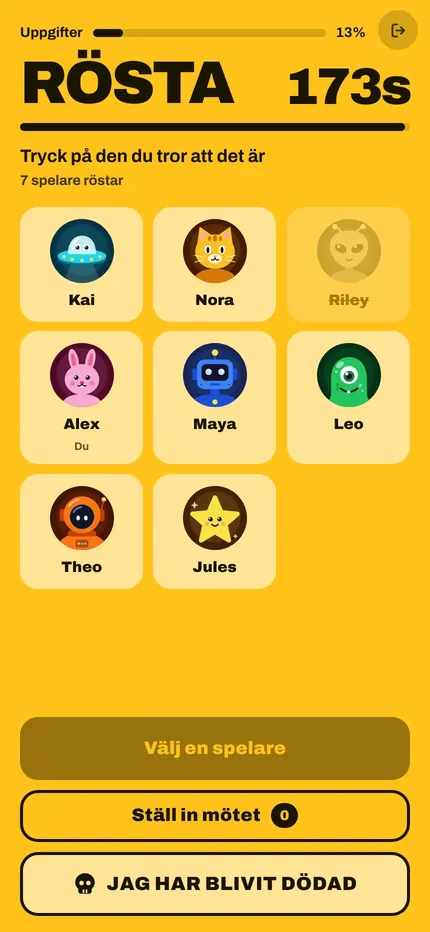
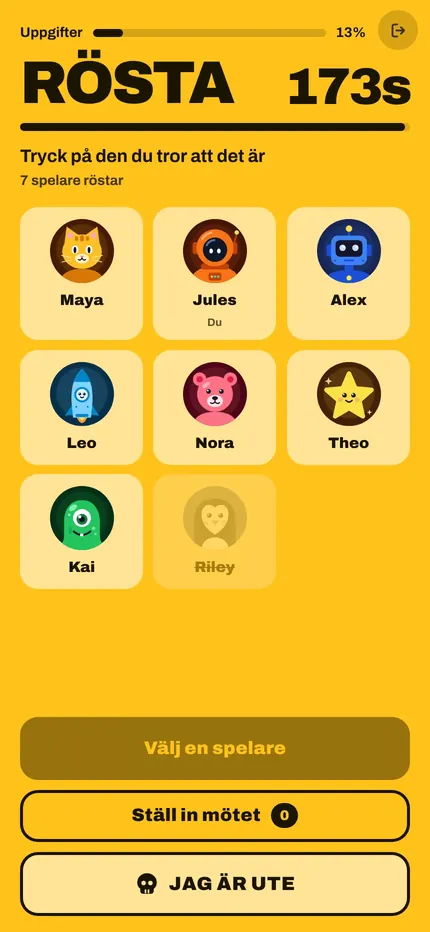
Use gentler wording in Norwegian and Swedish
Sam asked for softer language since many players are kids: kill,
murder, corpse and death words become eliminate / out. Re-shot the
/no and /sv round-strip screenshots so they show the new text.

Claude-Session: https://claude.ai/code/session_019kWBTsKt8SuS33keQ1FHBF

Changed region(s): [[0.0302, 0.2178, 0.9674, 0.6534], [0.1512, 0.9335, 0.8465, 0.9646]]

diff --git a/client/src/pages/seo/translated/content.js b/client/src/pages/seo/translated/content.js
@@ -349,7 +349,7 @@ const no = {
                 ['Alle får en hemmelig rolle.', 'Telefonskjerm med en hemmelig rolle.'],
                 ['Mannskapet gjør ekte oppgaver rundt i huset.', 'Skjerm med en ekte oppgave og rommet den skal gjøres i.'],
                 ['Inntrengerne later som og spiller sabotasjekort.', 'Skjerm med en inntrenger i ventilen og et sabotasjekort.'],
-                ['Funnet et lik? Alle samles.', 'Skjerm for nødmøte som viser hvem som har kommet.'],
+                ['Funnet en eliminert spiller? Alle samles.', 'Skjerm for nødmøte som viser hvem som har kommet.'],
                 ['Diskuter, og stem.', 'Avstemningsskjerm med ansiktet til hver spiller.'],
             ],
         },
@@ -416,7 +416,7 @@ const sv = {
                 ['Alla får en hemlig roll.', 'Mobilskärm med en hemlig roll.'],
                 ['Besättningen gör riktiga uppgifter runt om i huset.', 'Skärm med en riktig uppgift och rummet där den ska göras.'],
                 ['Inkräktarna låtsas och spelar sabotagekort.', 'Skärm med en inkräktare i ventilen och ett sabotagekort.'],
-                ['Hittat en kropp? Alla samlas.', 'Skärm för nödmöte som visar vem som har kommit.'],
+                ['Hittat en eliminerad spelare? Alla samlas.', 'Skärm för nödmöte som visar vem som har kommit.'],
                 ['Diskutera, och rösta sedan.', 'Röstningsskärm med varje spelares ansikte.'],
             ],
         },
